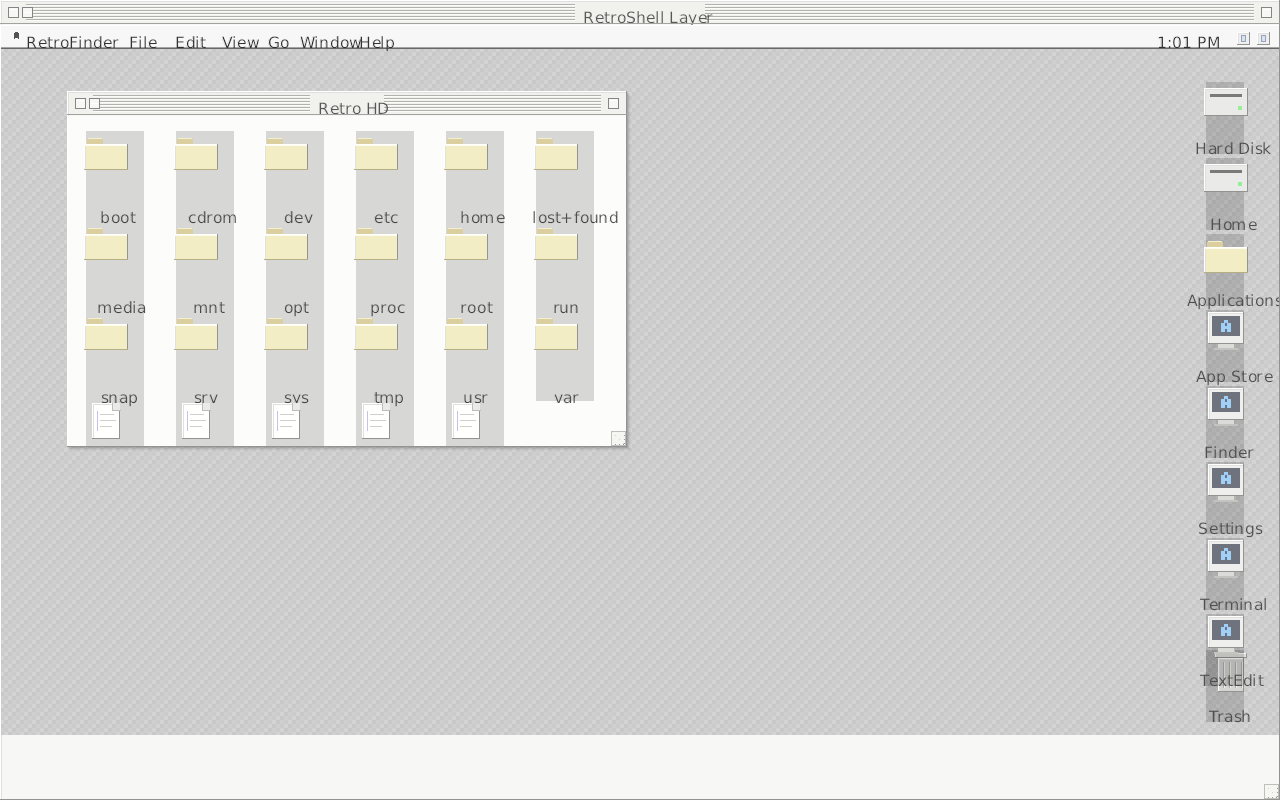
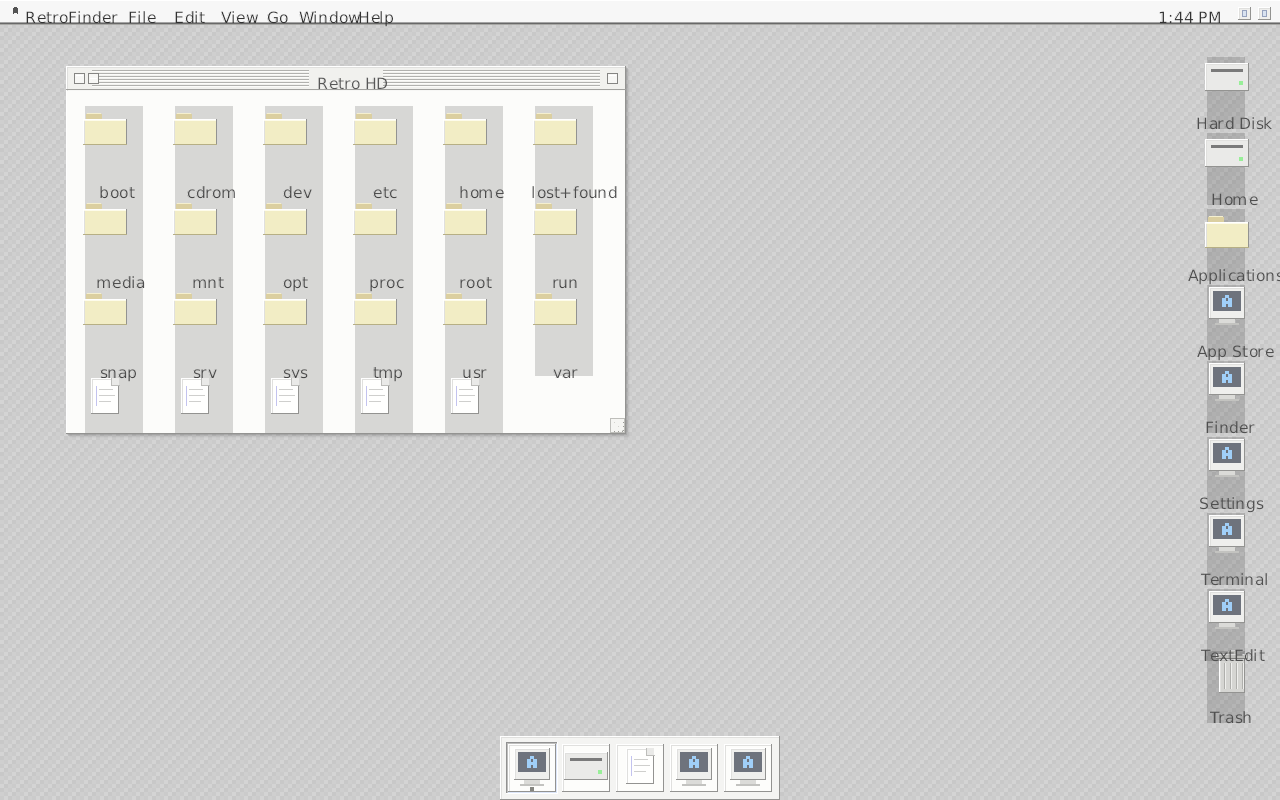
fix(shell): layer desktop chromeless + dock via UiRuntime::tick (Phase 2b polish)
- UiRuntime window titled "RetroShell Desktop" so draw_window renders it
  chromeless (no titlebar, no content clip) — menu bar at y=0.
- Add UiRuntime::tick() (mirrors AppHandler::about_to_wait: theme reload +
  content.update()) and call it each iteration of the layer_desktop loop, so
  ShellDesktop::update() rebuilds the dock/notifications. Dock now renders.

Verified under sway+grim on aarch64 VM: fullscreen root-level desktop with
menu bar, desktop icons, Finder window, and dock (docs/screenshots/qa-layer-desktop.png).

diff --git a/crates/retro-sdk/src/lib.rs b/crates/retro-sdk/src/lib.rs
@@ -800,7 +800,10 @@ impl UiRuntime {
         height_px: u32,
         scale: f32,
     ) -> Self {
-        let mut window = Window::new("RetroShell Layer");
+        // NOTE: the title MUST be "RetroShell Desktop" — draw_window special-cases
+        // that exact title to render chromeless (no titlebar, no content clip), so
+        // the menu bar sits at y=0 and the dock reaches the bottom edge.
+        let mut window = Window::new("RetroShell Desktop");
         window.set_content(content);
 
         let mut rt = Self {
@@ -829,6 +832,23 @@ impl UiRuntime {
         self.dark_mode = dark_mode;
         self.accent_color = accent_color;
         self.dirty = true;
+    }
+
+    /// Per-frame tick: reload theme preference and drive the content's
+    /// `update()` so dynamic content (dock items, notifications, etc.) is
+    /// rebuilt — mirrors the winit `AppHandler::about_to_wait` logic. A driver
+    /// must call this each event-loop iteration or the dock never populates.
+    pub fn tick(&mut self) {
+        let (dark, accent) = load_theme_preference();
+        if dark != self.dark_mode || accent != self.accent_color {
+            self.dark_mode = dark;
+            self.accent_color = accent;
+            self.dirty = true;
+        }
+        if let Some(ref mut win) = self.window {
+            win.update();
+            self.dirty = true;
+        }
     }
 
     /// Update the current modifier key state.

diff --git a/crates/retro-shell/src/layer_desktop.rs b/crates/retro-shell/src/layer_desktop.rs
@@ -126,17 +126,18 @@ pub fn run_layer_desktop(content: Box<dyn Widget>, width: u32, height: u32) -> a
             .blocking_dispatch(&mut state)
             .map_err(|e| anyhow!("dispatch: {}", e))?;
 
-        if let Some(runtime) = &state.runtime {
+        if let (Some(renderer), Some(runtime)) =
+            (state.renderer.as_mut(), state.runtime.as_mut())
+        {
+            // Per-frame tick drives ShellDesktop::update() (rebuilds the dock,
+            // notifications, clock). Without this the dock never populates.
+            runtime.tick();
             if runtime.is_dirty() {
-                if let (Some(renderer), Some(runtime)) =
-                    (state.renderer.as_mut(), state.runtime.as_mut())
-                {
-                    runtime
-                        .paint(renderer)
-                        .map_err(|e| anyhow!("repaint: {}", e))?;
-                    if let Some(surface) = &state.wl_surface {
-                        surface.commit();
-                    }
+                runtime
+                    .paint(renderer)
+                    .map_err(|e| anyhow!("repaint: {}", e))?;
+                if let Some(surface) = &state.wl_surface {
+                    surface.commit();
                 }
             }
         }
